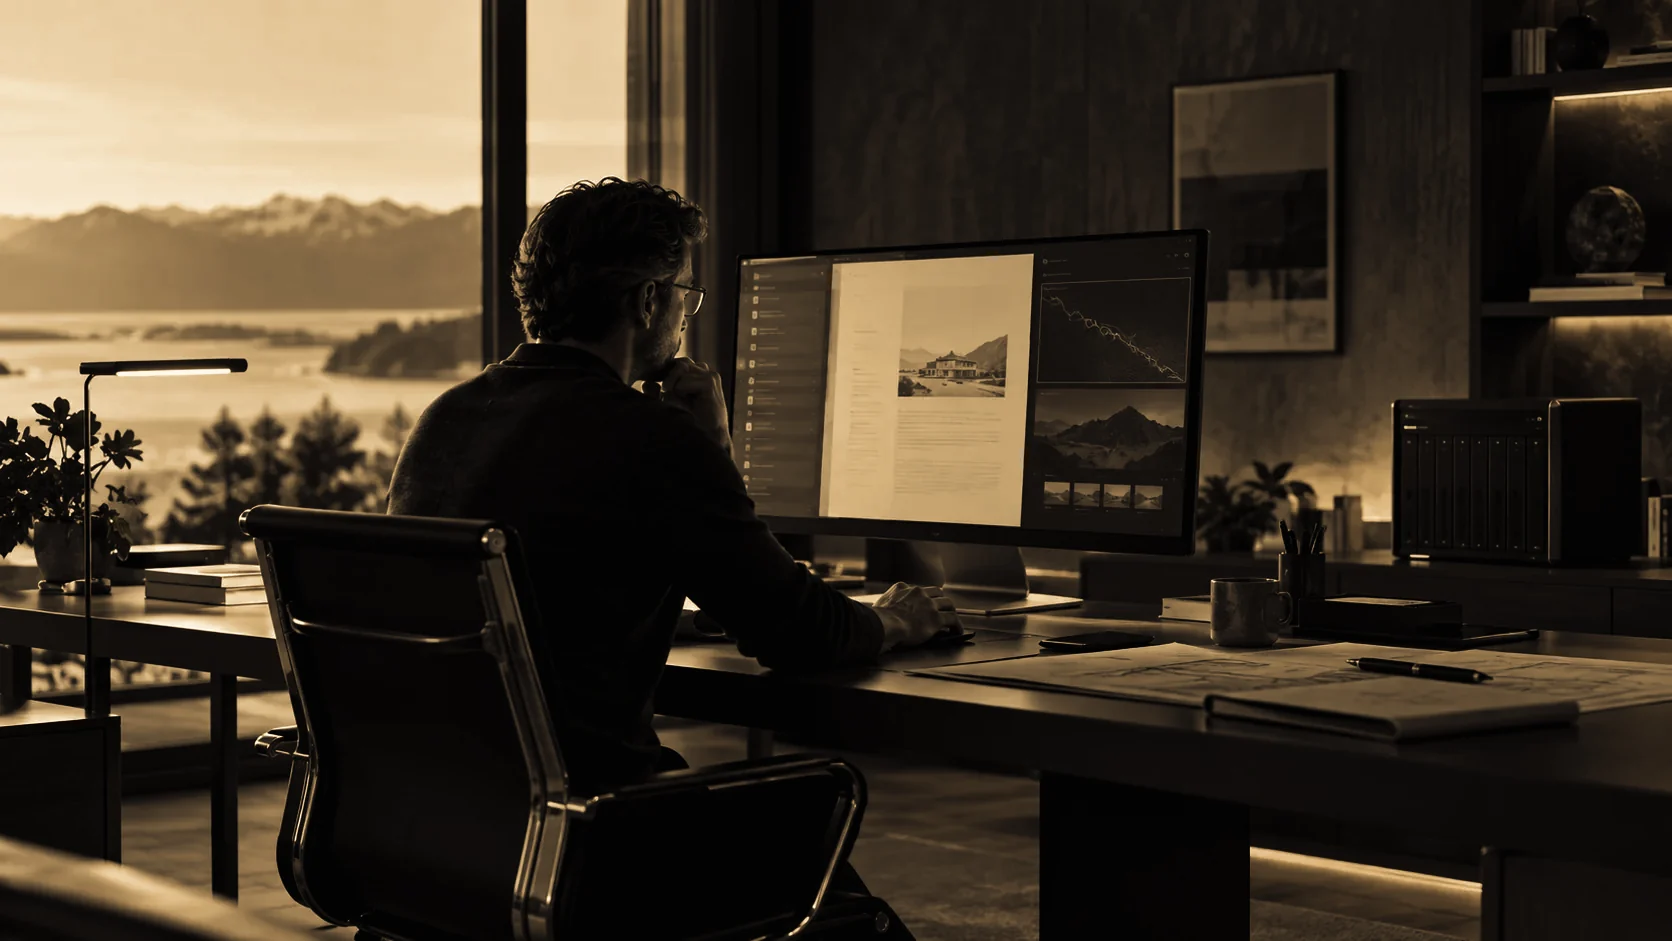
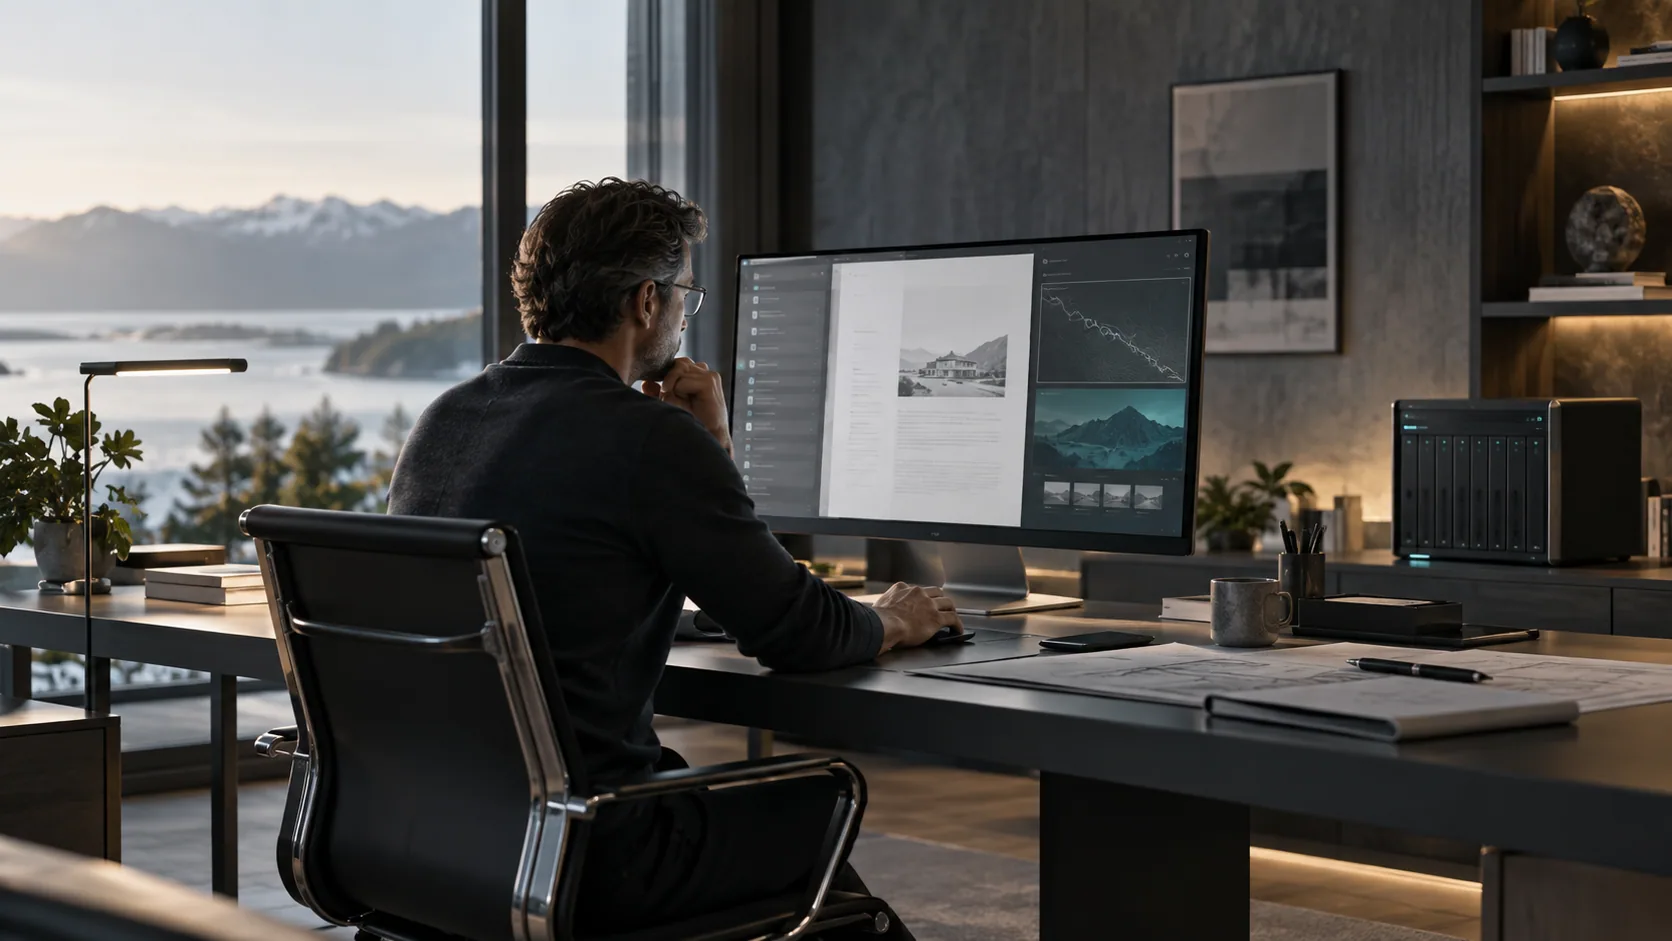
Revert "Tout en noir et or : photos étalonnées à l'or du logiciel, batteries et radar dorés"
This reverts commit 905ee99222e11a3ece5f18add85d834e32d78759.

diff --git a/index.html b/index.html
@@ -20,16 +20,16 @@
 <meta name="geo.region" content="CA-QC">
 <meta name="referrer" content="strict-origin-when-cross-origin">
 <meta name="theme-color" content="#000000">
-<link rel="icon" href="/favicon.svg?v=20261106e">
+<link rel="icon" href="/favicon.svg?v=20261106d">
 <link rel="apple-touch-icon" href="/apple-touch-icon.png">
 <script>try{var m=new URLSearchParams(location.search).get("mode")||localStorage.getItem("jarvis-mode");if(m==="base"||m==="signature"||m==="platinum")document.documentElement.dataset.mode=m}catch(e){}</script>
 <link rel="preload" href="/assets/fonts/geist/geist-latin.woff2" as="font" type="font/woff2" crossorigin>
-<link rel="stylesheet" href="/assets/css/wow.css?v=20261106e">
-<link rel="stylesheet" href="/assets/demos/app.css?v=20261106e">
-<link rel="stylesheet" href="/assets/demos/maison.css?v=20261106e">
-<link rel="stylesheet" href="/assets/demos/boulance.css?v=20261106e">
-<link rel="stylesheet" href="/assets/demos/carte.css?v=20261106e">
-<link rel="stylesheet" href="/assets/demos/rust.css?v=20261106e">
+<link rel="stylesheet" href="/assets/css/wow.css?v=20261106d">
+<link rel="stylesheet" href="/assets/demos/app.css?v=20261106d">
+<link rel="stylesheet" href="/assets/demos/maison.css?v=20261106d">
+<link rel="stylesheet" href="/assets/demos/boulance.css?v=20261106d">
+<link rel="stylesheet" href="/assets/demos/carte.css?v=20261106d">
+<link rel="stylesheet" href="/assets/demos/rust.css?v=20261106d">
 </head>
 <body class="">
 <a class="skip-link" href="#contenu">Aller au contenu</a>
@@ -580,8 +580,8 @@
         <div class="bl-cell">
           <svg class="bl-liquid" viewBox="0 0 200 400" preserveAspectRatio="none">
             <defs><linearGradient id="bl-liq-0" x1="0" x2="0" y1="0" y2="1">
-              <stop offset="0" style="stop-color:var(--bl-c, #f0d29a)"/>
-              <stop offset="1" style="stop-color:var(--bl-c2, #7a5420)"/></linearGradient></defs>
+              <stop offset="0" style="stop-color:var(--bl-c, #34d399)"/>
+              <stop offset="1" style="stop-color:var(--bl-c2, #0f766e)"/></linearGradient></defs>
             <path class="bl-wave w2" d=""></path><path class="bl-wave w1" d="" style="fill:url(#bl-liq-0)"></path>
           </svg>
           <div class="bl-bubbles"></div>
@@ -635,8 +635,8 @@
         <div class="bl-cell">
           <svg class="bl-liquid" viewBox="0 0 200 400" preserveAspectRatio="none">
             <defs><linearGradient id="bl-liq-1" x1="0" x2="0" y1="0" y2="1">
-              <stop offset="0" style="stop-color:var(--bl-c, #f0d29a)"/>
-              <stop offset="1" style="stop-color:var(--bl-c2, #7a5420)"/></linearGradient></defs>
+              <stop offset="0" style="stop-color:var(--bl-c, #34d399)"/>
+              <stop offset="1" style="stop-color:var(--bl-c2, #0f766e)"/></linearGradient></defs>
             <path class="bl-wave w2" d=""></path><path class="bl-wave w1" d="" style="fill:url(#bl-liq-1)"></path>
           </svg>
           <div class="bl-bubbles"></div>
@@ -1171,11 +1171,11 @@
   </div>
   <p class="foot-line"><span>© 2026 JARVIS Private Systems · Québec, Canada</span><span>Privé par conception</span></p>
 </footer>
-<script src="/assets/js/wow.js?v=20261106e" defer></script>
-<script src="/assets/demos/app.js?v=20261106e" defer></script>
-<script src="/assets/demos/maison.js?v=20261106e" defer></script>
-<script src="/assets/demos/boulance.js?v=20261106e" defer></script>
-<script src="/assets/demos/carte.js?v=20261106e" defer></script>
-<script src="/assets/demos/rust.js?v=20261106e" defer></script>
+<script src="/assets/js/wow.js?v=20261106d" defer></script>
+<script src="/assets/demos/app.js?v=20261106d" defer></script>
+<script src="/assets/demos/maison.js?v=20261106d" defer></script>
+<script src="/assets/demos/boulance.js?v=20261106d" defer></script>
+<script src="/assets/demos/carte.js?v=20261106d" defer></script>
+<script src="/assets/demos/rust.js?v=20261106d" defer></script>
 </body>
 </html>

diff --git a/laboratoire-mobile/index.html b/laboratoire-mobile/index.html
@@ -18,14 +18,14 @@
 <meta name="geo.region" content="CA-QC">
 <meta name="referrer" content="strict-origin-when-cross-origin">
 <meta name="theme-color" content="#000000">
-<link rel="icon" href="/favicon.svg?v=20261106e">
+<link rel="icon" href="/favicon.svg?v=20261106d">
 <link rel="apple-touch-icon" href="/apple-touch-icon.png">
 <script>try{var m=new URLSearchParams(location.search).get("mode")||localStorage.getItem("jarvis-mode");if(m==="base"||m==="signature"||m==="platinum")document.documentElement.dataset.mode=m}catch(e){}</script>
 <link rel="preload" href="/assets/fonts/geist/geist-latin.woff2" as="font" type="font/woff2" crossorigin>
-<link rel="stylesheet" href="/assets/css/wow.css?v=20261106e">
-<link rel="stylesheet" href="/assets/demos/boulance.css?v=20261106e">
-<link rel="stylesheet" href="/assets/demos/carte.css?v=20261106e">
-<link rel="stylesheet" href="/assets/demos/ambiances.css?v=20261106e">
+<link rel="stylesheet" href="/assets/css/wow.css?v=20261106d">
+<link rel="stylesheet" href="/assets/demos/boulance.css?v=20261106d">
+<link rel="stylesheet" href="/assets/demos/carte.css?v=20261106d">
+<link rel="stylesheet" href="/assets/demos/ambiances.css?v=20261106d">
 </head>
 <body class="">
 <a class="skip-link" href="#contenu">Aller au contenu</a>
@@ -96,8 +96,8 @@
         <div class="bl-cell">
           <svg class="bl-liquid" viewBox="0 0 200 400" preserveAspectRatio="none">
             <defs><linearGradient id="bl-liq-0" x1="0" x2="0" y1="0" y2="1">
-              <stop offset="0" style="stop-color:var(--bl-c, #f0d29a)"/>
-              <stop offset="1" style="stop-color:var(--bl-c2, #7a5420)"/></linearGradient></defs>
+              <stop offset="0" style="stop-color:var(--bl-c, #34d399)"/>
+              <stop offset="1" style="stop-color:var(--bl-c2, #0f766e)"/></linearGradient></defs>
             <path class="bl-wave w2" d=""></path><path class="bl-wave w1" d="" style="fill:url(#bl-liq-0)"></path>
           </svg>
           <div class="bl-bubbles"></div>
@@ -151,8 +151,8 @@
         <div class="bl-cell">
           <svg class="bl-liquid" viewBox="0 0 200 400" preserveAspectRatio="none">
             <defs><linearGradient id="bl-liq-1" x1="0" x2="0" y1="0" y2="1">
-              <stop offset="0" style="stop-color:var(--bl-c, #f0d29a)"/>
-              <stop offset="1" style="stop-color:var(--bl-c2, #7a5420)"/></linearGradient></defs>
+              <stop offset="0" style="stop-color:var(--bl-c, #34d399)"/>
+              <stop offset="1" style="stop-color:var(--bl-c2, #0f766e)"/></linearGradient></defs>
             <path class="bl-wave w2" d=""></path><path class="bl-wave w1" d="" style="fill:url(#bl-liq-1)"></path>
           </svg>
           <div class="bl-bubbles"></div>
@@ -386,9 +386,9 @@
   </div>
   <p class="foot-line"><span>© 2026 JARVIS Private Systems · Québec, Canada</span><span>Privé par conception</span></p>
 </footer>
-<script src="/assets/js/wow.js?v=20261106e" defer></script>
-<script src="/assets/demos/boulance.js?v=20261106e" defer></script>
-<script src="/assets/demos/carte.js?v=20261106e" defer></script>
-<script src="/assets/demos/ambiances.js?v=20261106e" defer></script>
+<script src="/assets/js/wow.js?v=20261106d" defer></script>
+<script src="/assets/demos/boulance.js?v=20261106d" defer></script>
+<script src="/assets/demos/carte.js?v=20261106d" defer></script>
+<script src="/assets/demos/ambiances.js?v=20261106d" defer></script>
 </body>
 </html>

diff --git a/assets/demos/boulance.css b/assets/demos/boulance.css
@@ -41,10 +41,10 @@
 [data-demo="boulance"] .bl-cell {
   position: relative; aspect-ratio: 1 / 2; border-radius: 18px; overflow: hidden;
   background: linear-gradient(90deg, #0d0c0b, #1a1814 50%, #0d0c0b); border: 1px solid #ffffff24;
-  box-shadow: inset 0 0 30px #000, 0 20px 50px #000c, 0 0 60px color-mix(in srgb, var(--bl-c, #f0d29a) calc(var(--soc, 0) * 0.28%), transparent);
+  box-shadow: inset 0 0 30px #000, 0 20px 50px #000c, 0 0 60px color-mix(in srgb, var(--bl-c, #34d399) calc(var(--soc, 0) * 0.3%), transparent);
 }
 [data-demo="boulance"] .bl-liquid { position: absolute; inset: 0; width: 100%; height: 100%; }
-[data-demo="boulance"] .bl-wave { fill: var(--bl-c, #f0d29a); transition: fill .8s; }
+[data-demo="boulance"] .bl-wave { fill: var(--bl-c, #34d399); transition: fill .8s; }
 [data-demo="boulance"] .bl-wave.w1 { opacity: .9; }
 [data-demo="boulance"] .bl-wave.w2 { opacity: .45; }
 [data-demo="boulance"] .bl-shine { position: absolute; inset: 0; pointer-events: none;
@@ -64,7 +64,7 @@
 [data-demo="boulance"] .bl-soc i { font-style: normal; font-size: .45em; margin-left: .1em; }
 [data-demo="boulance"] .bl-flag { font: 600 .58rem/1 var(--mono); letter-spacing: .1em; padding: .35rem .5rem; border-radius: 999px; border: 1px solid transparent; }
 [data-demo="boulance"] .bl-flag:empty { display: none; }
-[data-demo="boulance"] .bl-flag.ok { color: var(--gold-soft); border-color: color-mix(in srgb, var(--gold-soft) 40%, transparent); }
+[data-demo="boulance"] .bl-flag.ok { color: #9fe8bc; border-color: #2f5c42; }
 [data-demo="boulance"] .bl-flag.warn { color: #fcd34d; border-color: #7a5a1e; }
 [data-demo="boulance"] .bl-stats { display: grid; grid-template-columns: 1fr 1fr; gap: .7rem .9rem; margin: 0; }
 [data-demo="boulance"] .bl-stats dt { font: 500 .58rem/1.3 var(--mono); letter-spacing: .14em; text-transform: uppercase; color: #a8a8b0; }
@@ -72,7 +72,7 @@
 [data-demo="boulance"] .bl-stats dd { white-space: nowrap; margin: .2rem 0 0; font-weight: 650; font-size: 1.02rem; font-variant-numeric: tabular-nums; }
 [data-demo="boulance"] .bl-mos { display: flex; gap: .35rem; flex-wrap: wrap; margin: 1rem 0 0; }
 [data-demo="boulance"] .bl-mos span { font: 600 .56rem/1 var(--mono); letter-spacing: .1em; text-transform: uppercase; padding: .38rem .5rem; border-radius: 999px; border: 1px solid #ffffff24; color: #a8a8b0; }
-[data-demo="boulance"] .bl-mos span.on { color: var(--gold-soft); border-color: color-mix(in srgb, var(--gold-soft) 40%, transparent); background: color-mix(in srgb, var(--gold-soft) 8%, transparent); }
+[data-demo="boulance"] .bl-mos span.on { color: #9fe8bc; border-color: #2f5c42; background: #0b2016aa; }
 
 /* Centre : total, flux, courbe */
 [data-demo="boulance"] .bl-mid { padding: 2rem 1.6rem; display: flex; flex-direction: column; align-items: center; text-align: center; }

diff --git a/solutions/environnements-intelligents/index.html b/solutions/environnements-intelligents/index.html
@@ -18,13 +18,13 @@
 <meta name="geo.region" content="CA-QC">
 <meta name="referrer" content="strict-origin-when-cross-origin">
 <meta name="theme-color" content="#000000">
-<link rel="icon" href="/favicon.svg?v=20261106e">
+<link rel="icon" href="/favicon.svg?v=20261106d">
 <link rel="apple-touch-icon" href="/apple-touch-icon.png">
 <script>try{var m=new URLSearchParams(location.search).get("mode")||localStorage.getItem("jarvis-mode");if(m==="base"||m==="signature"||m==="platinum")document.documentElement.dataset.mode=m}catch(e){}</script>
 <link rel="preload" href="/assets/fonts/geist/geist-latin.woff2" as="font" type="font/woff2" crossorigin>
-<link rel="stylesheet" href="/assets/css/wow.css?v=20261106e">
-<link rel="stylesheet" href="/assets/demos/maison.css?v=20261106e">
-<link rel="stylesheet" href="/assets/demos/ambiances.css?v=20261106e">
+<link rel="stylesheet" href="/assets/css/wow.css?v=20261106d">
+<link rel="stylesheet" href="/assets/demos/maison.css?v=20261106d">
+<link rel="stylesheet" href="/assets/demos/ambiances.css?v=20261106d">
 </head>
 <body class="">
 <a class="skip-link" href="#contenu">Aller au contenu</a>
@@ -293,8 +293,8 @@
   </div>
   <p class="foot-line"><span>© 2026 JARVIS Private Systems · Québec, Canada</span><span>Privé par conception</span></p>
 </footer>
-<script src="/assets/js/wow.js?v=20261106e" defer></script>
-<script src="/assets/demos/maison.js?v=20261106e" defer></script>
-<script src="/assets/demos/ambiances.js?v=20261106e" defer></script>
+<script src="/assets/js/wow.js?v=20261106d" defer></script>
+<script src="/assets/demos/maison.js?v=20261106d" defer></script>
+<script src="/assets/demos/ambiances.js?v=20261106d" defer></script>
 </body>
 </html>

diff --git a/plateforme/index.html b/plateforme/index.html
@@ -20,13 +20,13 @@
 <meta name="geo.region" content="CA-QC">
 <meta name="referrer" content="strict-origin-when-cross-origin">
 <meta name="theme-color" content="#000000">
-<link rel="icon" href="/favicon.svg?v=20261106e">
+<link rel="icon" href="/favicon.svg?v=20261106d">
 <link rel="apple-touch-icon" href="/apple-touch-icon.png">
 <script>try{var m=new URLSearchParams(location.search).get("mode")||localStorage.getItem("jarvis-mode");if(m==="base"||m==="signature"||m==="platinum")document.documentElement.dataset.mode=m}catch(e){}</script>
 <link rel="preload" href="/assets/fonts/geist/geist-latin.woff2" as="font" type="font/woff2" crossorigin>
-<link rel="stylesheet" href="/assets/css/wow.css?v=20261106e">
-<link rel="stylesheet" href="/assets/demos/app.css?v=20261106e">
-<link rel="stylesheet" href="/assets/demos/rust.css?v=20261106e">
+<link rel="stylesheet" href="/assets/css/wow.css?v=20261106d">
+<link rel="stylesheet" href="/assets/demos/app.css?v=20261106d">
+<link rel="stylesheet" href="/assets/demos/rust.css?v=20261106d">
 </head>
 <body class="">
 <a class="skip-link" href="#contenu">Aller au contenu</a>
@@ -674,8 +674,8 @@
   </div>
   <p class="foot-line"><span>© 2026 JARVIS Private Systems · Québec, Canada</span><span>Privé par conception</span></p>
 </footer>
-<script src="/assets/js/wow.js?v=20261106e" defer></script>
-<script src="/assets/demos/app.js?v=20261106e" defer></script>
-<script src="/assets/demos/rust.js?v=20261106e" defer></script>
+<script src="/assets/js/wow.js?v=20261106d" defer></script>
+<script src="/assets/demos/app.js?v=20261106d" defer></script>
+<script src="/assets/demos/rust.js?v=20261106d" defer></script>
 </body>
 </html>

diff --git a/solutions/automatisation-operations/index.html b/solutions/automatisation-operations/index.html
@@ -18,12 +18,12 @@
 <meta name="geo.region" content="CA-QC">
 <meta name="referrer" content="strict-origin-when-cross-origin">
 <meta name="theme-color" content="#000000">
-<link rel="icon" href="/favicon.svg?v=20261106e">
+<link rel="icon" href="/favicon.svg?v=20261106d">
 <link rel="apple-touch-icon" href="/apple-touch-icon.png">
 <script>try{var m=new URLSearchParams(location.search).get("mode")||localStorage.getItem("jarvis-mode");if(m==="base"||m==="signature"||m==="platinum")document.documentElement.dataset.mode=m}catch(e){}</script>
 <link rel="preload" href="/assets/fonts/geist/geist-latin.woff2" as="font" type="font/woff2" crossorigin>
-<link rel="stylesheet" href="/assets/css/wow.css?v=20261106e">
-<link rel="stylesheet" href="/assets/demos/automatisation.css?v=20261106e">
+<link rel="stylesheet" href="/assets/css/wow.css?v=20261106d">
+<link rel="stylesheet" href="/assets/demos/automatisation.css?v=20261106d">
 </head>
 <body class="">
 <a class="skip-link" href="#contenu">Aller au contenu</a>
@@ -331,7 +331,7 @@
   </div>
   <p class="foot-line"><span>© 2026 JARVIS Private Systems · Québec, Canada</span><span>Privé par conception</span></p>
 </footer>
-<script src="/assets/js/wow.js?v=20261106e" defer></script>
-<script src="/assets/demos/automatisation.js?v=20261106e" defer></script>
+<script src="/assets/js/wow.js?v=20261106d" defer></script>
+<script src="/assets/demos/automatisation.js?v=20261106d" defer></script>
 </body>
 </html>

diff --git a/solutions/diagnostic-care/index.html b/solutions/diagnostic-care/index.html
@@ -18,12 +18,12 @@
 <meta name="geo.region" content="CA-QC">
 <meta name="referrer" content="strict-origin-when-cross-origin">
 <meta name="theme-color" content="#000000">
-<link rel="icon" href="/favicon.svg?v=20261106e">
+<link rel="icon" href="/favicon.svg?v=20261106d">
 <link rel="apple-touch-icon" href="/apple-touch-icon.png">
 <script>try{var m=new URLSearchParams(location.search).get("mode")||localStorage.getItem("jarvis-mode");if(m==="base"||m==="signature"||m==="platinum")document.documentElement.dataset.mode=m}catch(e){}</script>
 <link rel="preload" href="/assets/fonts/geist/geist-latin.woff2" as="font" type="font/woff2" crossorigin>
-<link rel="stylesheet" href="/assets/css/wow.css?v=20261106e">
-<link rel="stylesheet" href="/assets/demos/diagnostic.css?v=20261106e">
+<link rel="stylesheet" href="/assets/css/wow.css?v=20261106d">
+<link rel="stylesheet" href="/assets/demos/diagnostic.css?v=20261106d">
 </head>
 <body class="">
 <a class="skip-link" href="#contenu">Aller au contenu</a>
@@ -195,7 +195,7 @@
   </div>
   <p class="foot-line"><span>© 2026 JARVIS Private Systems · Québec, Canada</span><span>Privé par conception</span></p>
 </footer>
-<script src="/assets/js/wow.js?v=20261106e" defer></script>
-<script src="/assets/demos/diagnostic.js?v=20261106e" defer></script>
+<script src="/assets/js/wow.js?v=20261106d" defer></script>
+<script src="/assets/demos/diagnostic.js?v=20261106d" defer></script>
 </body>
 </html>

diff --git a/solutions/securite-intelligente/index.html b/solutions/securite-intelligente/index.html
@@ -18,12 +18,12 @@
 <meta name="geo.region" content="CA-QC">
 <meta name="referrer" content="strict-origin-when-cross-origin">
 <meta name="theme-color" content="#000000">
-<link rel="icon" href="/favicon.svg?v=20261106e">
+<link rel="icon" href="/favicon.svg?v=20261106d">
 <link rel="apple-touch-icon" href="/apple-touch-icon.png">
 <script>try{var m=new URLSearchParams(location.search).get("mode")||localStorage.getItem("jarvis-mode");if(m==="base"||m==="signature"||m==="platinum")document.documentElement.dataset.mode=m}catch(e){}</script>
 <link rel="preload" href="/assets/fonts/geist/geist-latin.woff2" as="font" type="font/woff2" crossorigin>
-<link rel="stylesheet" href="/assets/css/wow.css?v=20261106e">
-<link rel="stylesheet" href="/assets/demos/securite.css?v=20261106e">
+<link rel="stylesheet" href="/assets/css/wow.css?v=20261106d">
+<link rel="stylesheet" href="/assets/demos/securite.css?v=20261106d">
 </head>
 <body class="">
 <a class="skip-link" href="#contenu">Aller au contenu</a>
@@ -249,7 +249,7 @@
   </div>
   <p class="foot-line"><span>© 2026 JARVIS Private Systems · Québec, Canada</span><span>Privé par conception</span></p>
 </footer>
-<script src="/assets/js/wow.js?v=20261106e" defer></script>
-<script src="/assets/demos/securite.js?v=20261106e" defer></script>
+<script src="/assets/js/wow.js?v=20261106d" defer></script>
+<script src="/assets/demos/securite.js?v=20261106d" defer></script>
 </body>
 </html>

diff --git a/solutions/reseau-resilience/index.html b/solutions/reseau-resilience/index.html
@@ -18,12 +18,12 @@
 <meta name="geo.region" content="CA-QC">
 <meta name="referrer" content="strict-origin-when-cross-origin">
 <meta name="theme-color" content="#000000">
-<link rel="icon" href="/favicon.svg?v=20261106e">
+<link rel="icon" href="/favicon.svg?v=20261106d">
 <link rel="apple-touch-icon" href="/apple-touch-icon.png">
 <script>try{var m=new URLSearchParams(location.search).get("mode")||localStorage.getItem("jarvis-mode");if(m==="base"||m==="signature"||m==="platinum")document.documentElement.dataset.mode=m}catch(e){}</script>
 <link rel="preload" href="/assets/fonts/geist/geist-latin.woff2" as="font" type="font/woff2" crossorigin>
-<link rel="stylesheet" href="/assets/css/wow.css?v=20261106e">
-<link rel="stylesheet" href="/assets/demos/reseau.css?v=20261106e">
+<link rel="stylesheet" href="/assets/css/wow.css?v=20261106d">
+<link rel="stylesheet" href="/assets/demos/reseau.css?v=20261106d">
 </head>
 <body class="">
 <a class="skip-link" href="#contenu">Aller au contenu</a>
@@ -223,7 +223,7 @@
   </div>
   <p class="foot-line"><span>© 2026 JARVIS Private Systems · Québec, Canada</span><span>Privé par conception</span></p>
 </footer>
-<script src="/assets/js/wow.js?v=20261106e" defer></script>
-<script src="/assets/demos/reseau.js?v=20261106e" defer></script>
+<script src="/assets/js/wow.js?v=20261106d" defer></script>
+<script src="/assets/demos/reseau.js?v=20261106d" defer></script>
 </body>
 </html>

diff --git a/solutions/ia-privee-connaissances/index.html b/solutions/ia-privee-connaissances/index.html
@@ -18,12 +18,12 @@
 <meta name="geo.region" content="CA-QC">
 <meta name="referrer" content="strict-origin-when-cross-origin">
 <meta name="theme-color" content="#000000">
-<link rel="icon" href="/favicon.svg?v=20261106e">
+<link rel="icon" href="/favicon.svg?v=20261106d">
 <link rel="apple-touch-icon" href="/apple-touch-icon.png">
 <script>try{var m=new URLSearchParams(location.search).get("mode")||localStorage.getItem("jarvis-mode");if(m==="base"||m==="signature"||m==="platinum")document.documentElement.dataset.mode=m}catch(e){}</script>
 <link rel="preload" href="/assets/fonts/geist/geist-latin.woff2" as="font" type="font/woff2" crossorigin>
-<link rel="stylesheet" href="/assets/css/wow.css?v=20261106e">
-<link rel="stylesheet" href="/assets/demos/ia.css?v=20261106e">
+<link rel="stylesheet" href="/assets/css/wow.css?v=20261106d">
+<link rel="stylesheet" href="/assets/demos/ia.css?v=20261106d">
 </head>
 <body class="">
 <a class="skip-link" href="#contenu">Aller au contenu</a>
@@ -447,7 +447,7 @@
   </div>
   <p class="foot-line"><span>© 2026 JARVIS Private Systems · Québec, Canada</span><span>Privé par conception</span></p>
 </footer>
-<script src="/assets/js/wow.js?v=20261106e" defer></script>
-<script src="/assets/demos/ia.js?v=20261106e" defer></script>
+<script src="/assets/js/wow.js?v=20261106d" defer></script>
+<script src="/assets/demos/ia.js?v=20261106d" defer></script>
 </body>
 </html>

diff --git a/assets/demos/carte.css b/assets/demos/carte.css
@@ -23,7 +23,7 @@
   position: absolute; right: 1.2rem; bottom: 1.2rem; z-index: 2; display: flex; align-items: center; gap: .5rem; padding: .5rem .75rem; border-radius: 999px;
   background: #050505c8; border: 1px solid #ffffff24; font: 500 .6rem/1 var(--mono); letter-spacing: .08em; text-transform: uppercase; color: #c4c4cc;
 }
-[data-demo="carte"] .ct-legend i { width: 90px; height: 8px; border-radius: 4px; background: linear-gradient(90deg, #4a3418, #9a6f33, #e0b96f, #fff1d0); }
+[data-demo="carte"] .ct-legend i { width: 90px; height: 8px; border-radius: 4px; background: linear-gradient(90deg, #9be7ff, #3b82f6, #22c55e, #facc15, #f97316, #ef4444, #c026d3); }
 [data-demo="carte"] .ct-legend em { font-style: normal; color: #a8a8b0; margin-left: .3rem; }
 [data-demo="carte"] .ct-marker { position: relative; width: 18px; height: 18px; }
 [data-demo="carte"] .ct-marker i { position: absolute; inset: 0; border-radius: 50%; background: var(--gold-soft); box-shadow: 0 0 0 3px #000, 0 0 22px var(--mode-glow); }
@@ -60,6 +60,3 @@
 @media (max-width: 700px) {
   [data-demo="carte"] .ct-track button.is-live { font-size: .58rem; }
 }
-
-/* Noir et or : la carte et le radar prennent la teinte du site; l'intensité se lit à la luminosité */
-[data-demo="carte"] .ct-map canvas { filter: sepia(.85) saturate(1.55) hue-rotate(-10deg) brightness(.98) contrast(1.06); }

diff --git a/a-propos/index.html b/a-propos/index.html
@@ -18,11 +18,11 @@
 <meta name="geo.region" content="CA-QC">
 <meta name="referrer" content="strict-origin-when-cross-origin">
 <meta name="theme-color" content="#000000">
-<link rel="icon" href="/favicon.svg?v=20261106e">
+<link rel="icon" href="/favicon.svg?v=20261106d">
 <link rel="apple-touch-icon" href="/apple-touch-icon.png">
 <script>try{var m=new URLSearchParams(location.search).get("mode")||localStorage.getItem("jarvis-mode");if(m==="base"||m==="signature"||m==="platinum")document.documentElement.dataset.mode=m}catch(e){}</script>
 <link rel="preload" href="/assets/fonts/geist/geist-latin.woff2" as="font" type="font/woff2" crossorigin>
-<link rel="stylesheet" href="/assets/css/wow.css?v=20261106e">
+<link rel="stylesheet" href="/assets/css/wow.css?v=20261106d">
 </head>
 <body class="">
 <a class="skip-link" href="#contenu">Aller au contenu</a>
@@ -134,6 +134,6 @@
   </div>
   <p class="foot-line"><span>© 2026 JARVIS Private Systems · Québec, Canada</span><span>Privé par conception</span></p>
 </footer>
-<script src="/assets/js/wow.js?v=20261106e" defer></script>
+<script src="/assets/js/wow.js?v=20261106d" defer></script>
 </body>
 </html>
